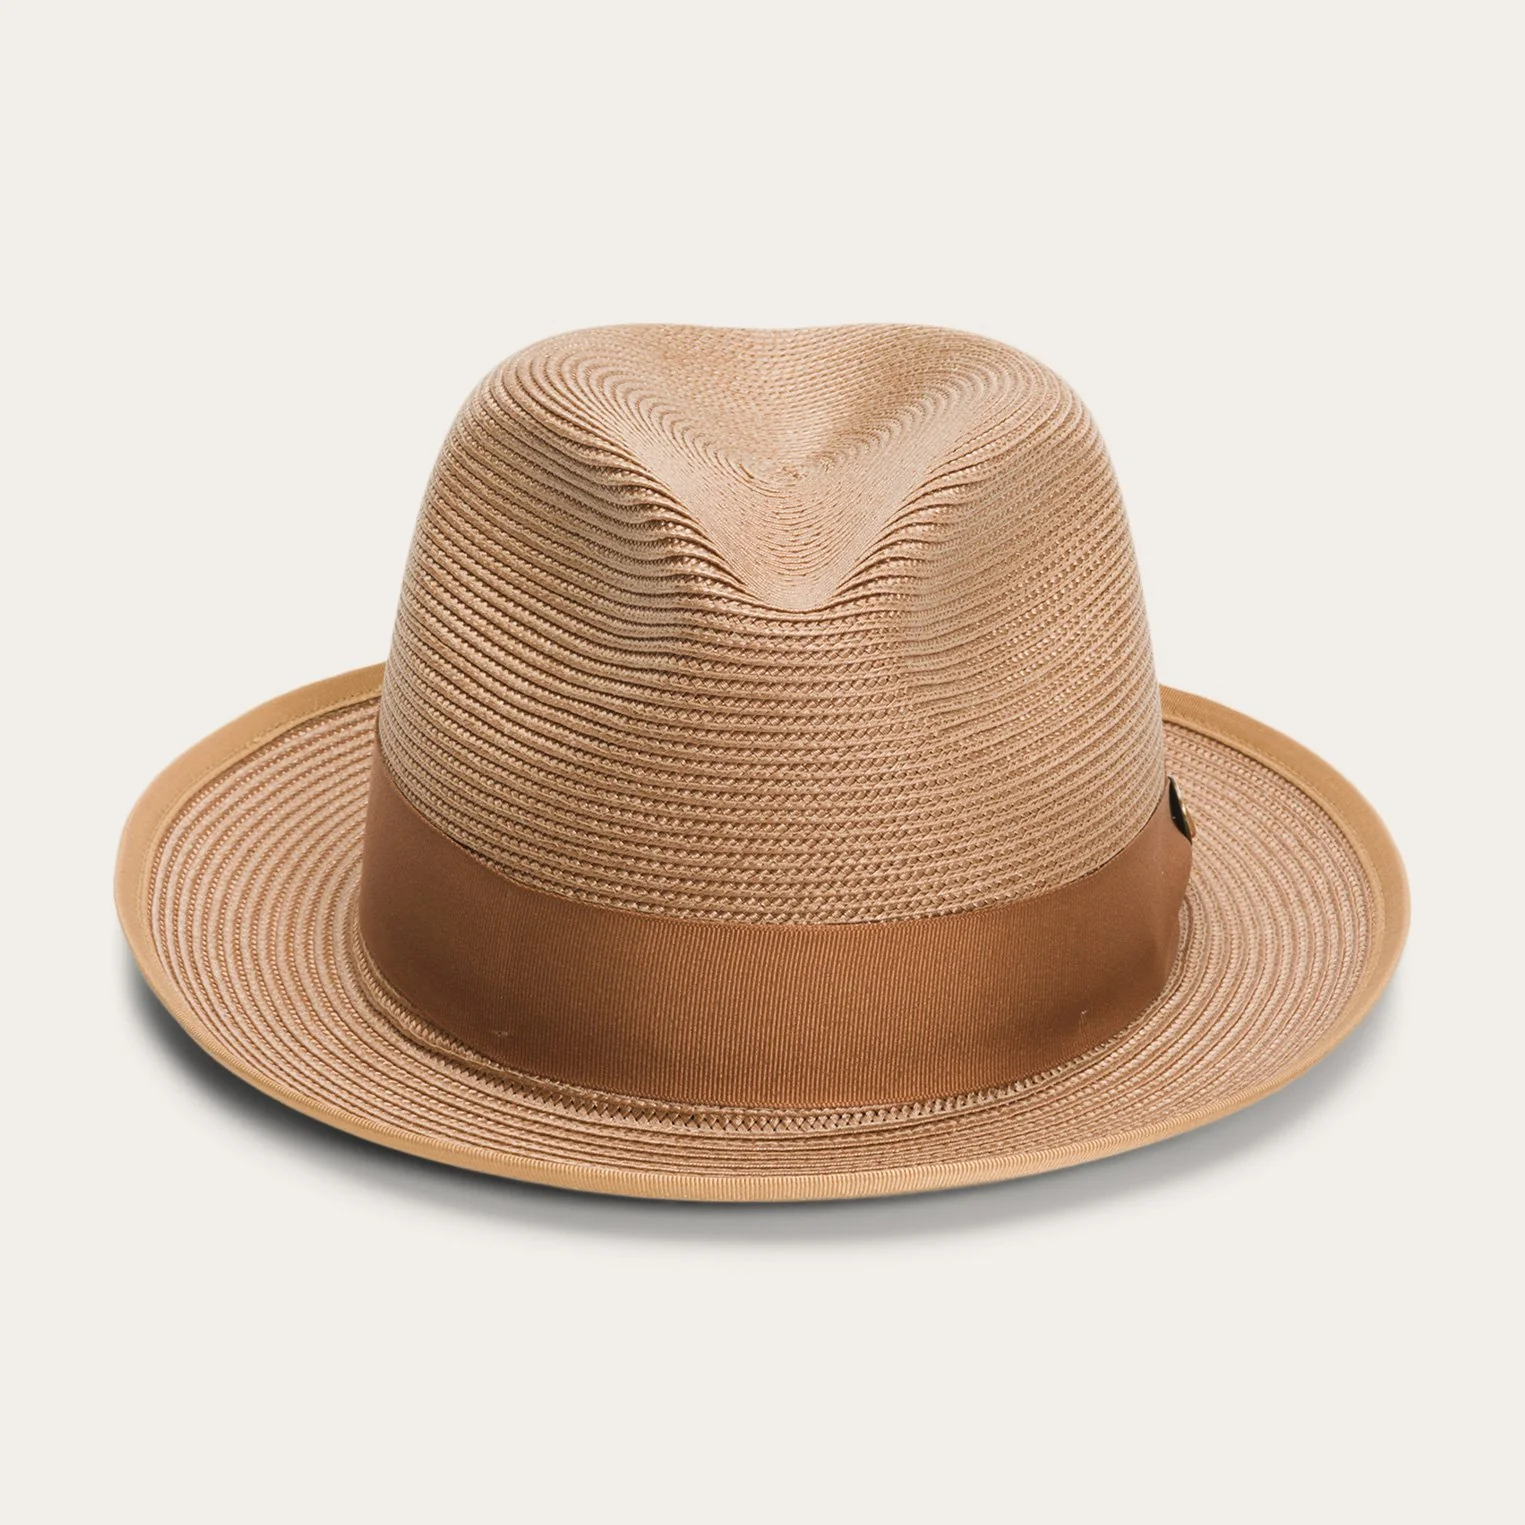
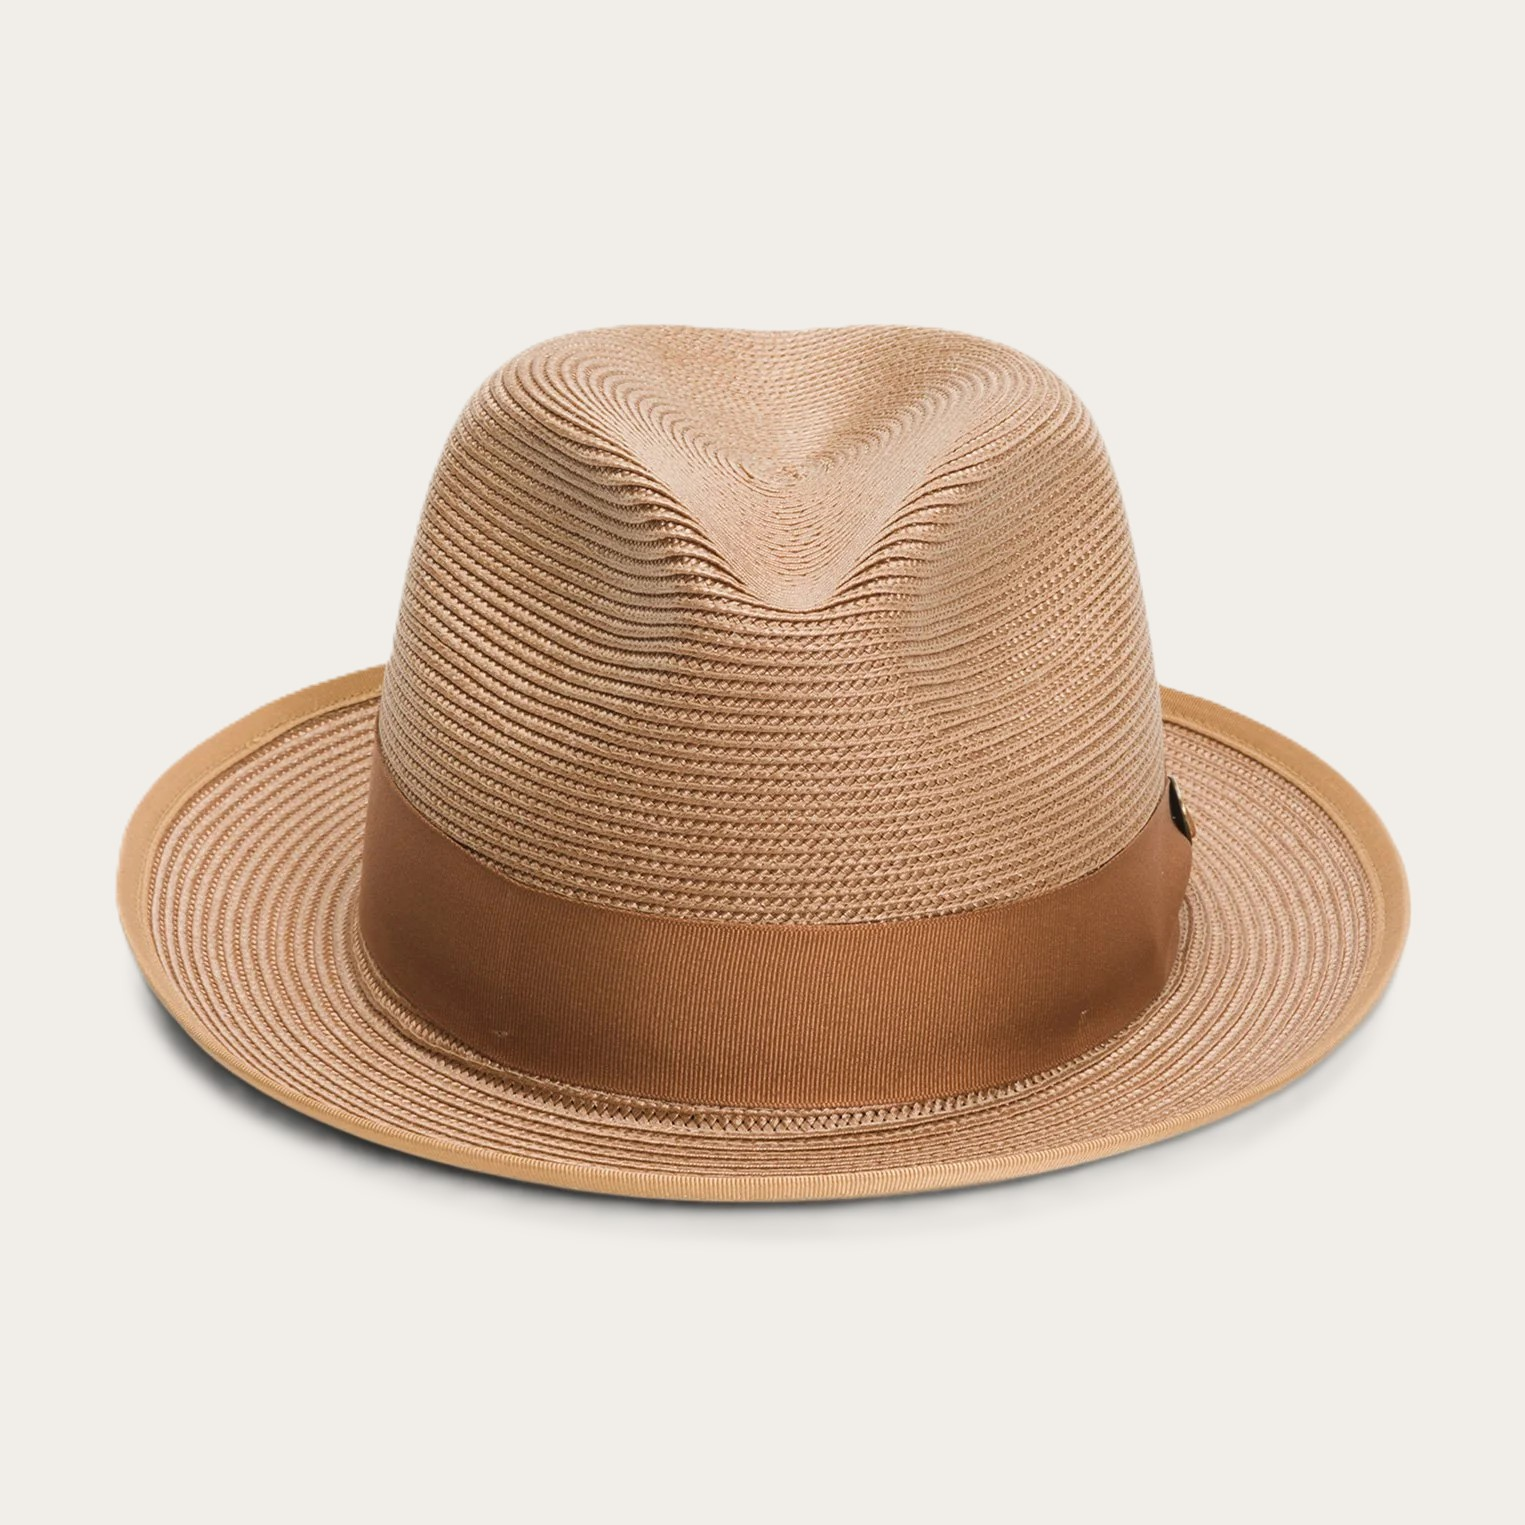
colores actualizados

diff --git a/css/index.css b/css/index.css
@@ -21,7 +21,7 @@ body {
   margin: 0;
   padding-top: 70px;
   font-family: 'GT America', sans-serif;
-  background-color: #f1eeea;
+  background-color: #ffffff;
   color: #222;
   overflow-x: hidden;
 }
